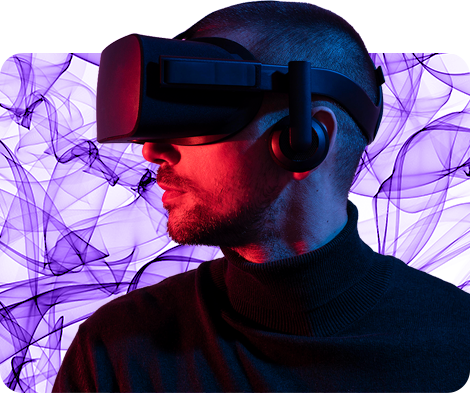
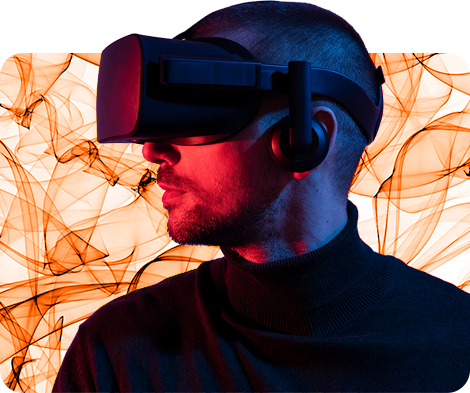
Local server changes

diff --git a/routes/web.php b/routes/web.php
@@ -7,21 +7,35 @@ use App\Http\Controllers\BlogController;
 use Illuminate\Support\Facades\Mail;
 use Illuminate\Http\Request;
 use App\Http\Controllers\ContactController;
+
 Route::get('/custom-login', function() {
     return view('auth.custom-login');
 })->name('custom-login');
 
-
 Route::post('/contact', [ContactController::class, 'send'])->name('contact.send');
 
-// Route::post('/contact-send', [ContactController::class, 'send'])->name('contact.send');
-
-// 🔹 الصفحة الرئيسية للموقع (الفرونت إند)
+// 🔹 الصفحة الرئيسية للموقع
 Route::get('/', function () {
-    return view('frontend.home3'); // تشير إلى resources/views/frontend/home.blade.php
+    return view('frontend.home3'); // أو home4 إذا أردت
 })->name('frontend.home');
 
-// 🔹 مثال لمسار لوحة التحكم (backend)
+// 🔹 صفحة home4 للاختبار
+Route::get('/home4', function () {
+    return view('frontend.home4');
+})->name('frontend.home4');
+
+// 🔹 رابط اختبار سريع
+Route::get('/test-page', function() {
+    return "<h1 style='color: green; text-align: center; margin-top: 50px;'>
+            ✅ الصفحة تعمل بدون قاعدة بيانات!
+            </h1>";
+});
+
+// 🔹 رابط آخر للاختبار
+Route::get('/test-simple', function() {
+    return view('test'); // ستقوم بإنشاء هذا الملف
+});
+
 Route::get('/dashboard', function () {
     return view('dashboard.welcome');
 })->name('dashboard.welcome');
@@ -32,28 +46,26 @@ Route::get('/contact', function () {
     return view('frontend.Contact');
 })->name('contact');
 
-// صفحة "خدمتنا"
+// بقية الروابط...
 Route::get('/our-services', function () {
     return view('frontend.our_services');
 })->name('frontend.our-services');
 
-// صفحة من نحن
 Route::get('/about-us', function () {
     return view('frontend.about-us');
 })->name('frontend.about-us');
 
-// صفحة الغرف
 Route::get('/view', function () {
     return view('frontend.allrooms');
 })->name('frontend.rooms');
+
 Route::get('/guests-reviews', function () {
     return view('frontend.guests-reviews');
 })->name('guests.reviews');
+
 Route::get('/book-now', function () {
     return view('frontend.book-now');
 })->name('book.now');
-// صفحة المدونة - قائمة المقالات
-
 
 Route::post('/contact-send', function (Request $request) {
     $data = $request->validate([
@@ -63,38 +75,19 @@ Route::post('/contact-send', function (Request $request) {
     ]);
 
     Mail::raw("اسم المرسل: {$data['name']}\nالبريد: {$data['email']}\n\nالرسالة:\n{$data['message']}", function ($msg) use ($data) {
-        $msg->to('[email redacted]')
+        $msg->to('[email redacted]')
             ->subject('رسالة جديدة من نموذج التواصل بموقع تخيّل');
     });
 
     return response()->json(['success' => true]);
 });
 
-
-
-// Route::post('/contact-send', [ContactController::class, 'send'])->name('contact.send');
-
-
 Route::get('/blog', [BlogController::class, 'index'])->name('blog.index');
-
-// صفحة المقال المفرد (اختياري)
 Route::get('/blog/{slug}', [BlogController::class, 'show'])->name('blog.show');
 
-
-// Route::get('/rooms', [RoomController::class, 'index'])->name('rooms.index');
 Route::get('/rooms', function () {
     return view('frontend.rooms.index');
 })->name('rooms.show');
 
-
-
-
-
-// Route::get('/home', 'HomeController@index')->name('home');
-
-
-
-
 Auth::routes();
-
 Route::get('/home', [App\Http\Controllers\HomeController::class, 'index'])->name('home');